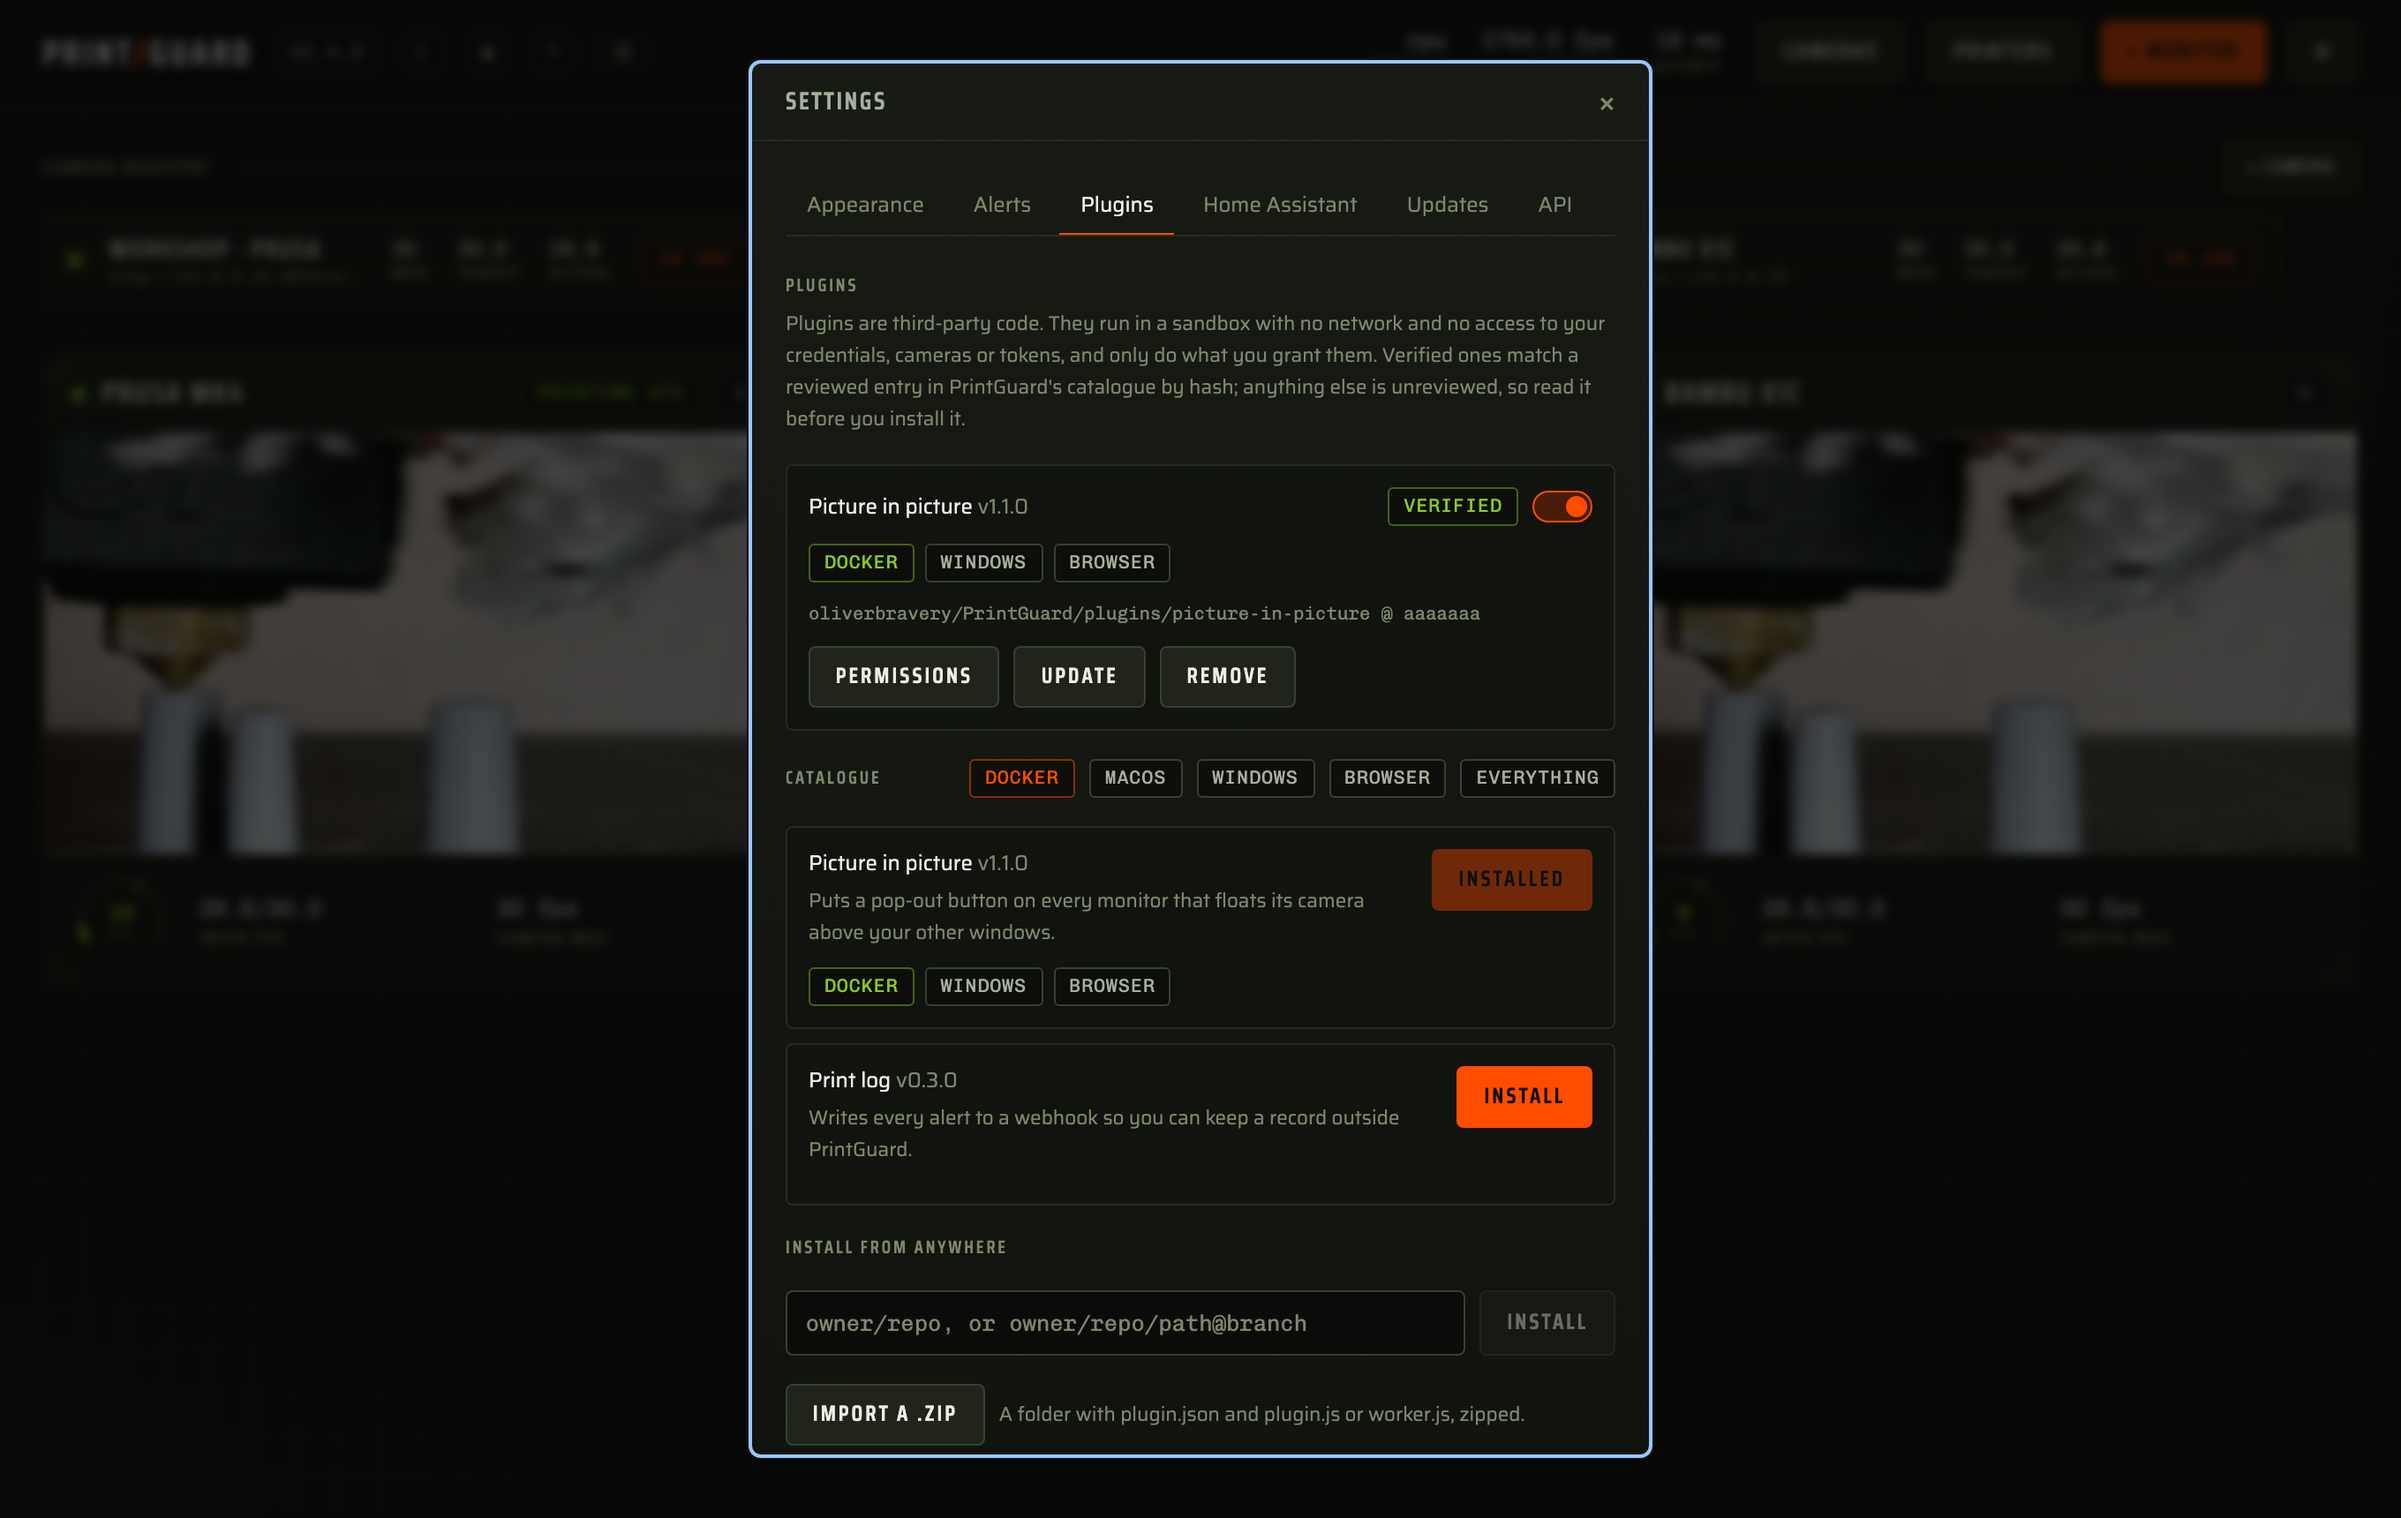
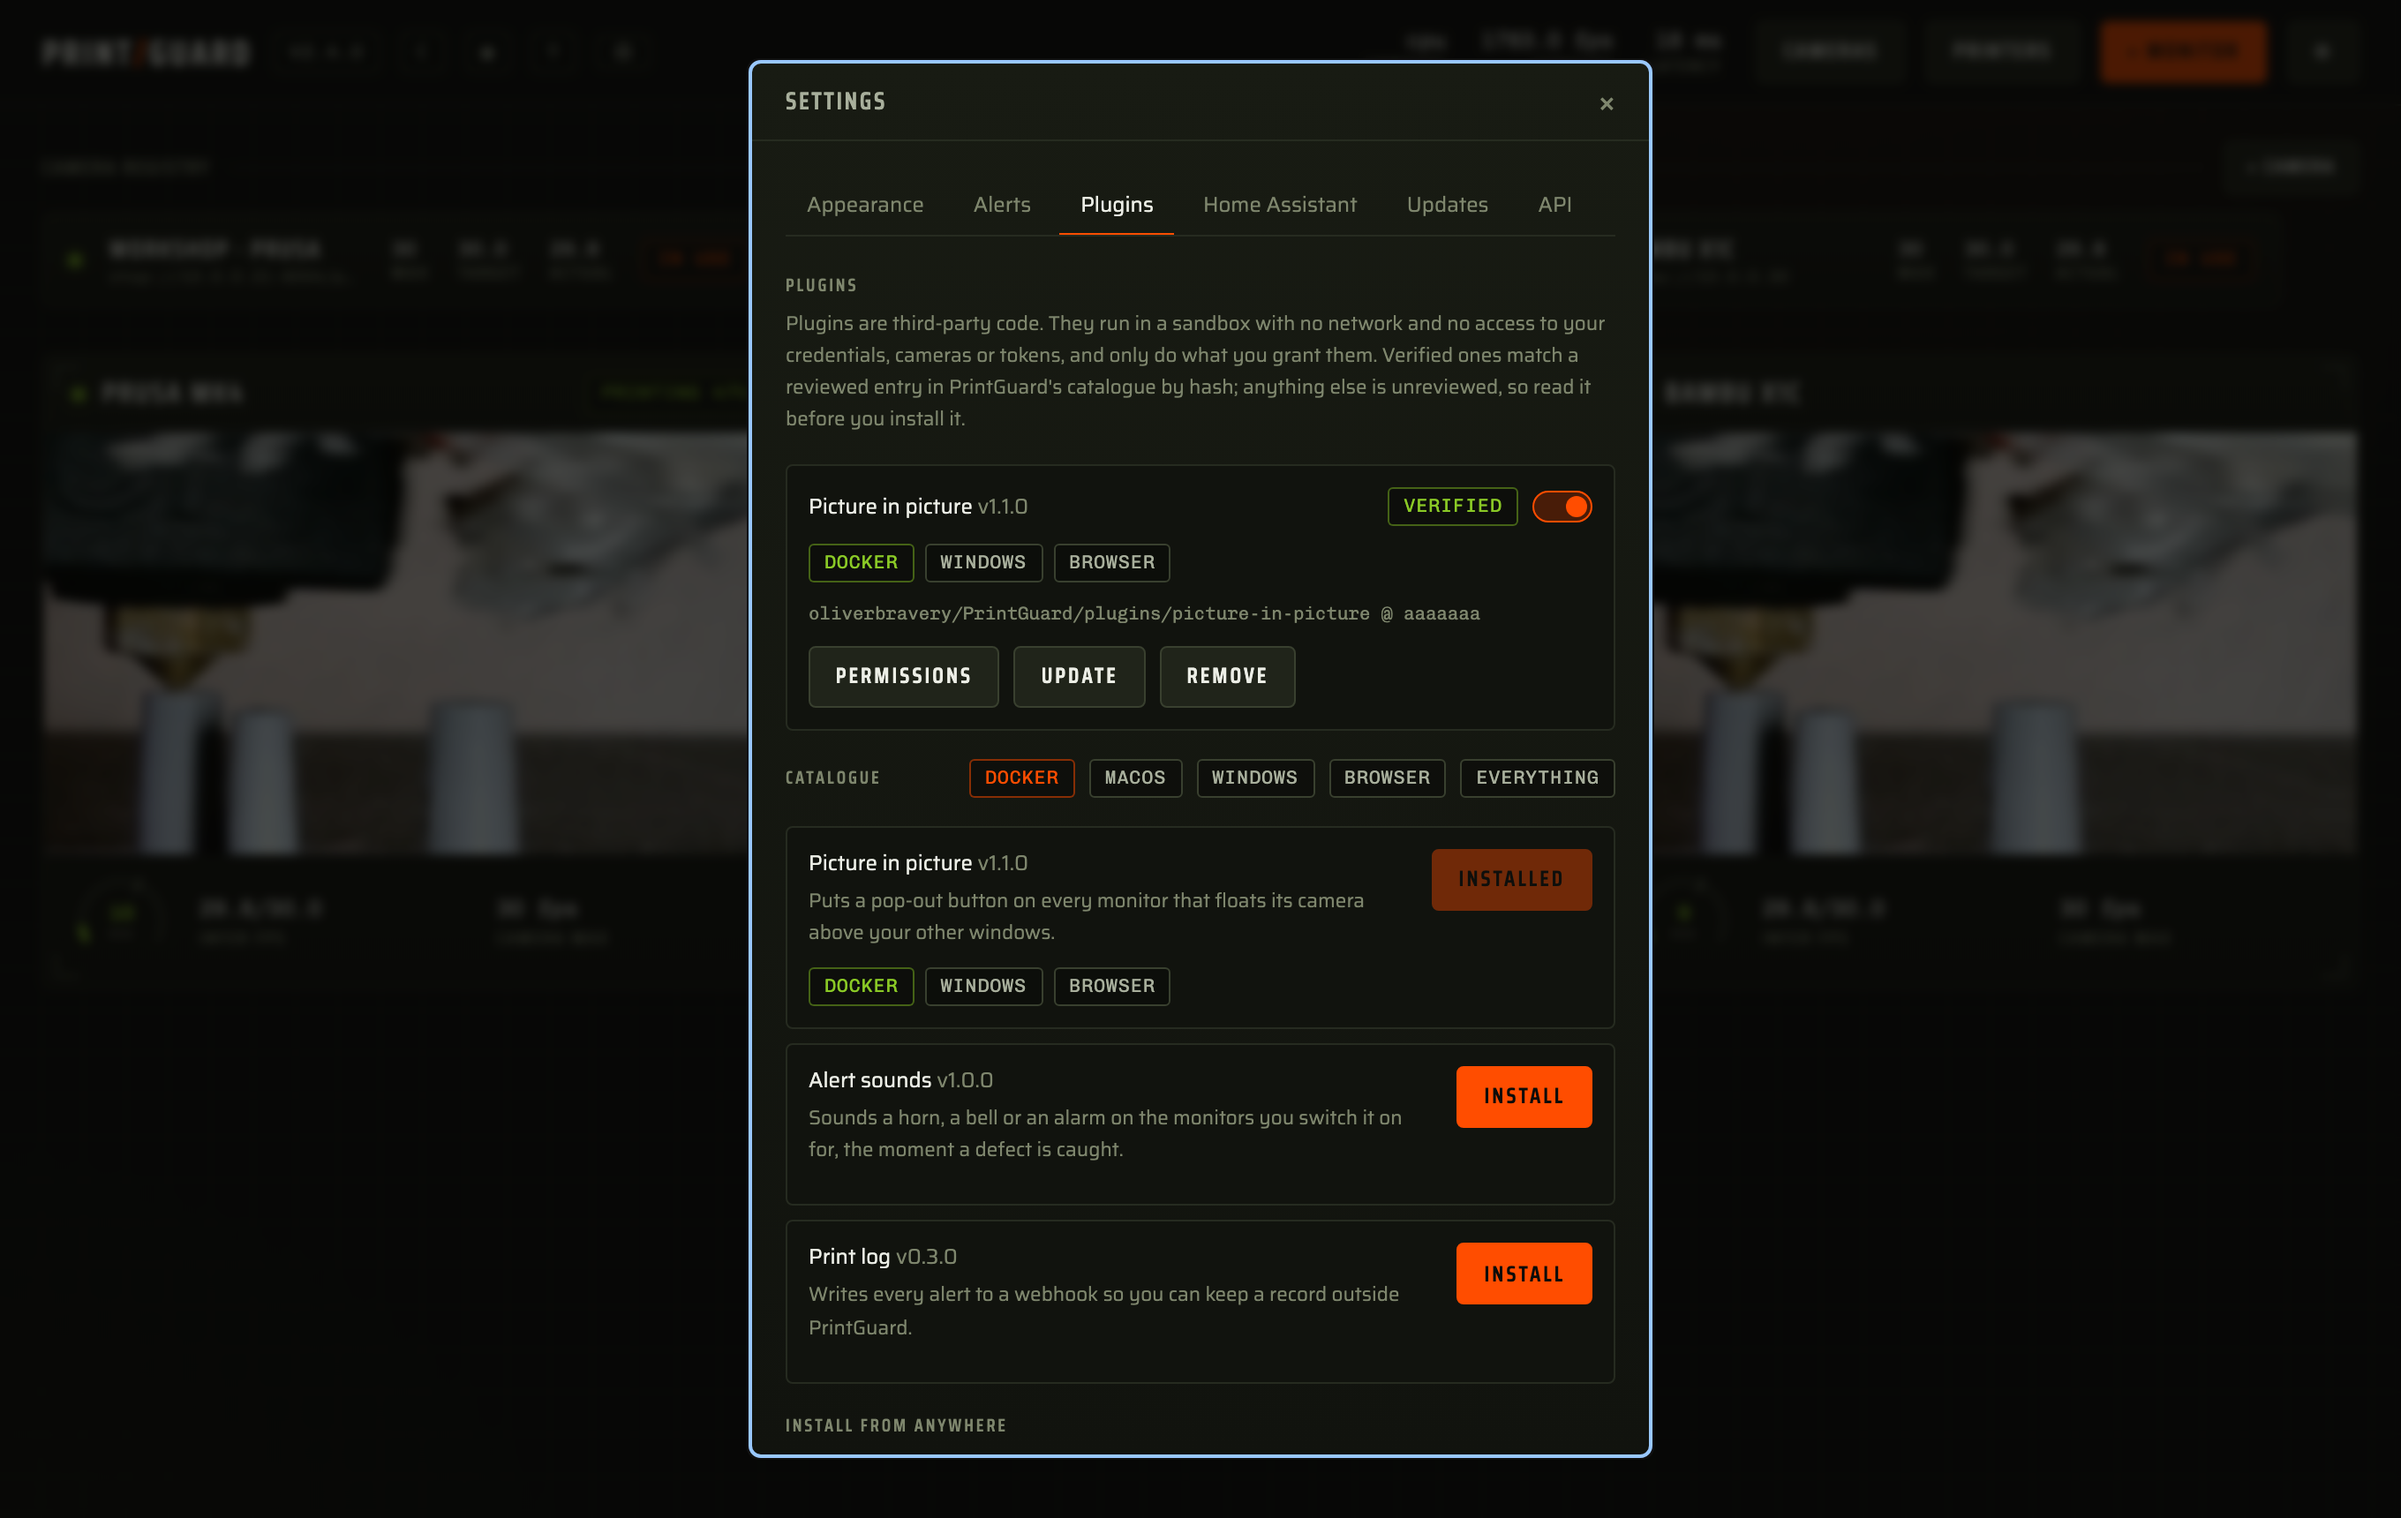
Show alert sounds in the plugins screenshot

diff --git a/web/screenshots/capture.spec.ts b/web/screenshots/capture.spec.ts
@@ -68,6 +68,7 @@ const PERMISSIONS = [
   { id: "state:read", label: "Read the dashboard", description: "Monitor names, scores and alerts, camera and printer names and status. Never credentials or tokens." },
   { id: "camera:view", label: "Show live camera feeds", description: "Place a camera feed in its own panel. The plugin never receives the video itself." },
   { id: "notify", label: "Show notifications", description: "Raise a message in this dashboard. Does not use your alert channels." },
+  { id: "sound", label: "Play a sound", description: "Sound a short alert through this device's speakers, once you have pressed something." },
 ];
 
 const CATALOGUE = [
@@ -76,6 +77,12 @@ const CATALOGUE = [
     description: "Puts a pop-out button on every monitor that floats its camera above your other windows.",
     repo: "oliverbravery/PrintGuard", path: "plugins/picture-in-picture", ref: "a".repeat(40),
     permissions: ["state:read", "camera:view"], platforms: ["docker", "windows", "browser"], surfaces: ["monitor", "float"], digests: {},
+  },
+  {
+    id: "alert-sounds", name: "Alert sounds", version: "1.0.0", author: "oliverbravery",
+    description: "Sounds a horn, a bell or an alarm on the monitors you switch it on for, the moment a defect is caught.",
+    repo: "oliverbravery/PrintGuard", path: "plugins/alert-sounds", ref: "c".repeat(40),
+    permissions: ["state:read", "sound"], platforms: [], surfaces: ["monitor", "panel"], digests: {},
   },
   {
     id: "print-log", name: "Print log", version: "0.3.0", author: "community",
